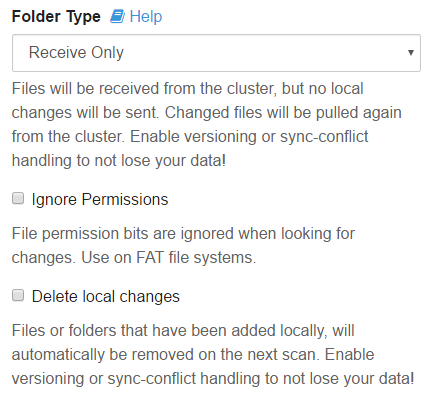
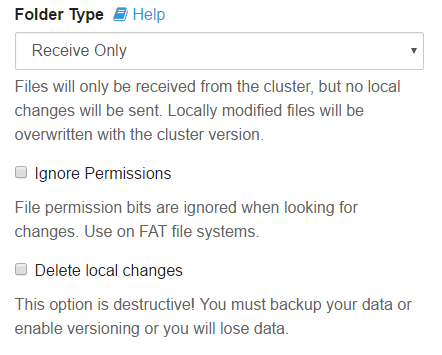
updated wording based on PR feedback

diff --git a/users/foldertypes.rst b/users/foldertypes.rst
@@ -44,13 +44,13 @@ A folder can be set in "receive-only mode" among the folder settings.
 .. image:: folderreceiveonly.png
 
 In this mode, a device will never send any local updates to the cluster.
-It will only "mirror" the folder from the cluster.
+It will only ever receive changes.
 
-If an existing file gets locally modified, it will be replaced with the 
-version from the cluster on the next scan.
+If an existing file gets modified locally, it will automatically be replaced 
+with the cluster version on the next scan.
 
 The "Delete local changes" will remove any files or directories that 
-have been added locally. !Use with care!
+have been added locally. **Use with care!**
 
 Enable :ref:`versioning` or set maxConflicts, to avoid losing any local 
 changes.
